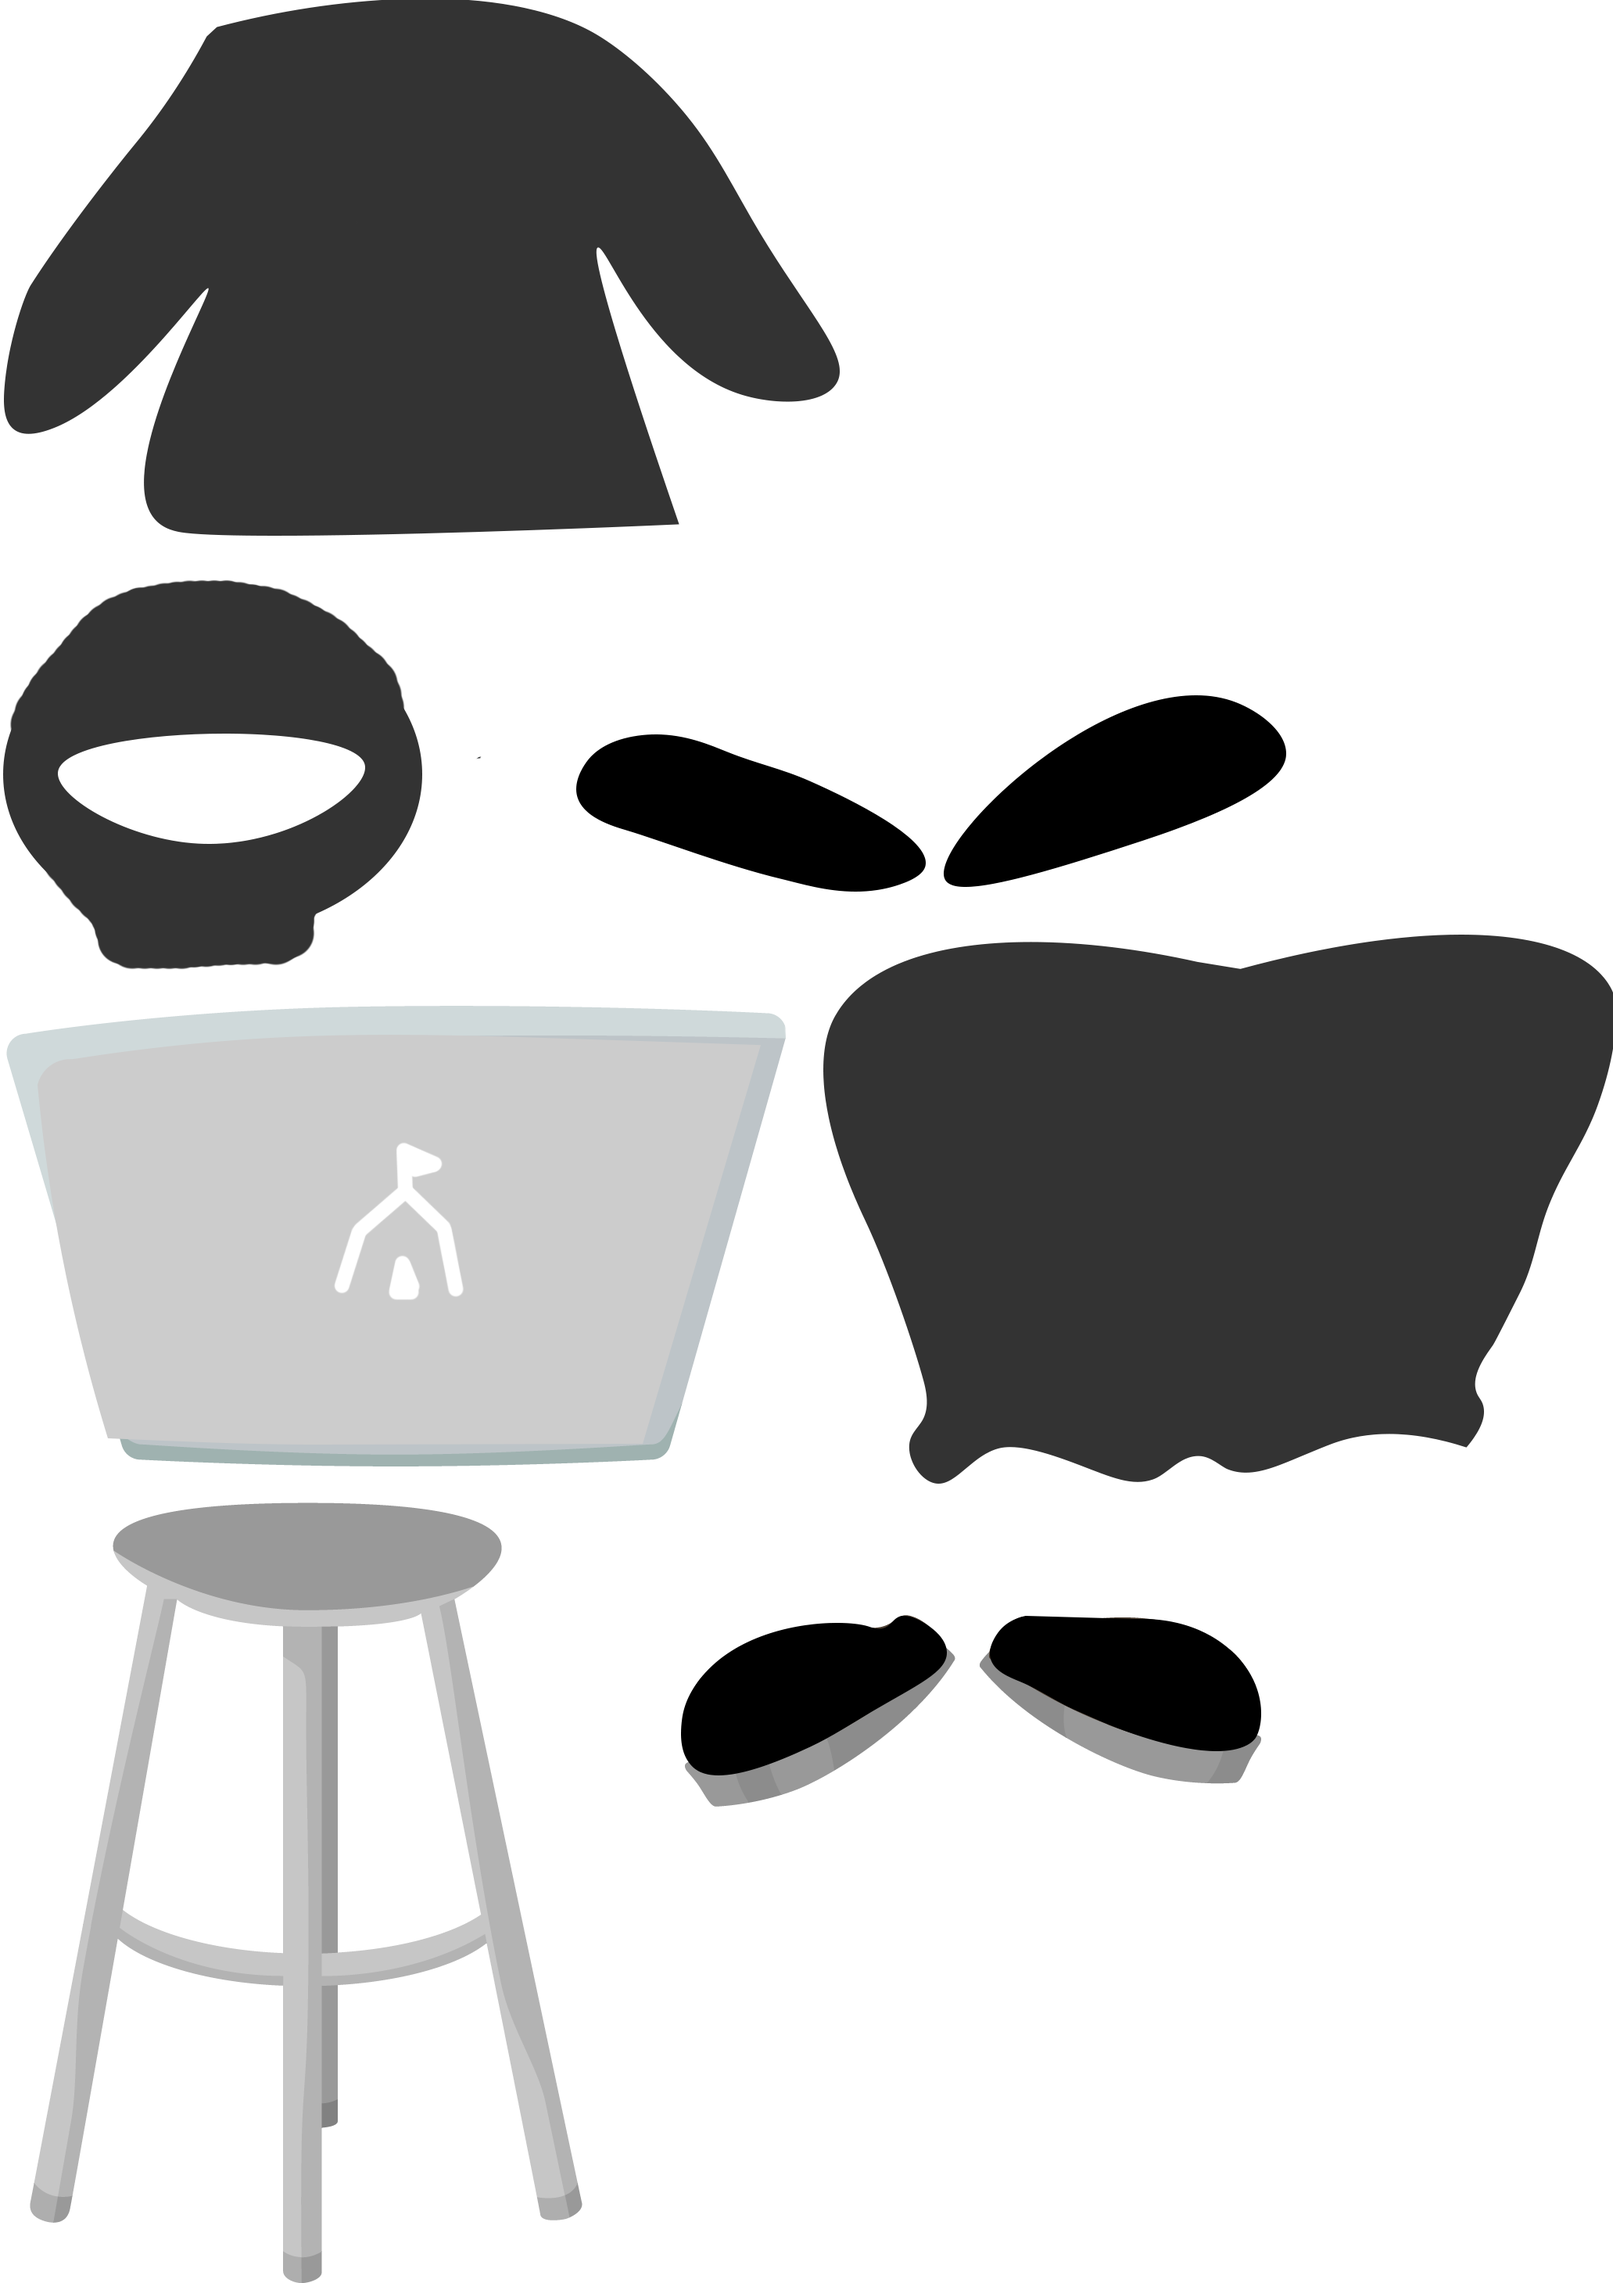
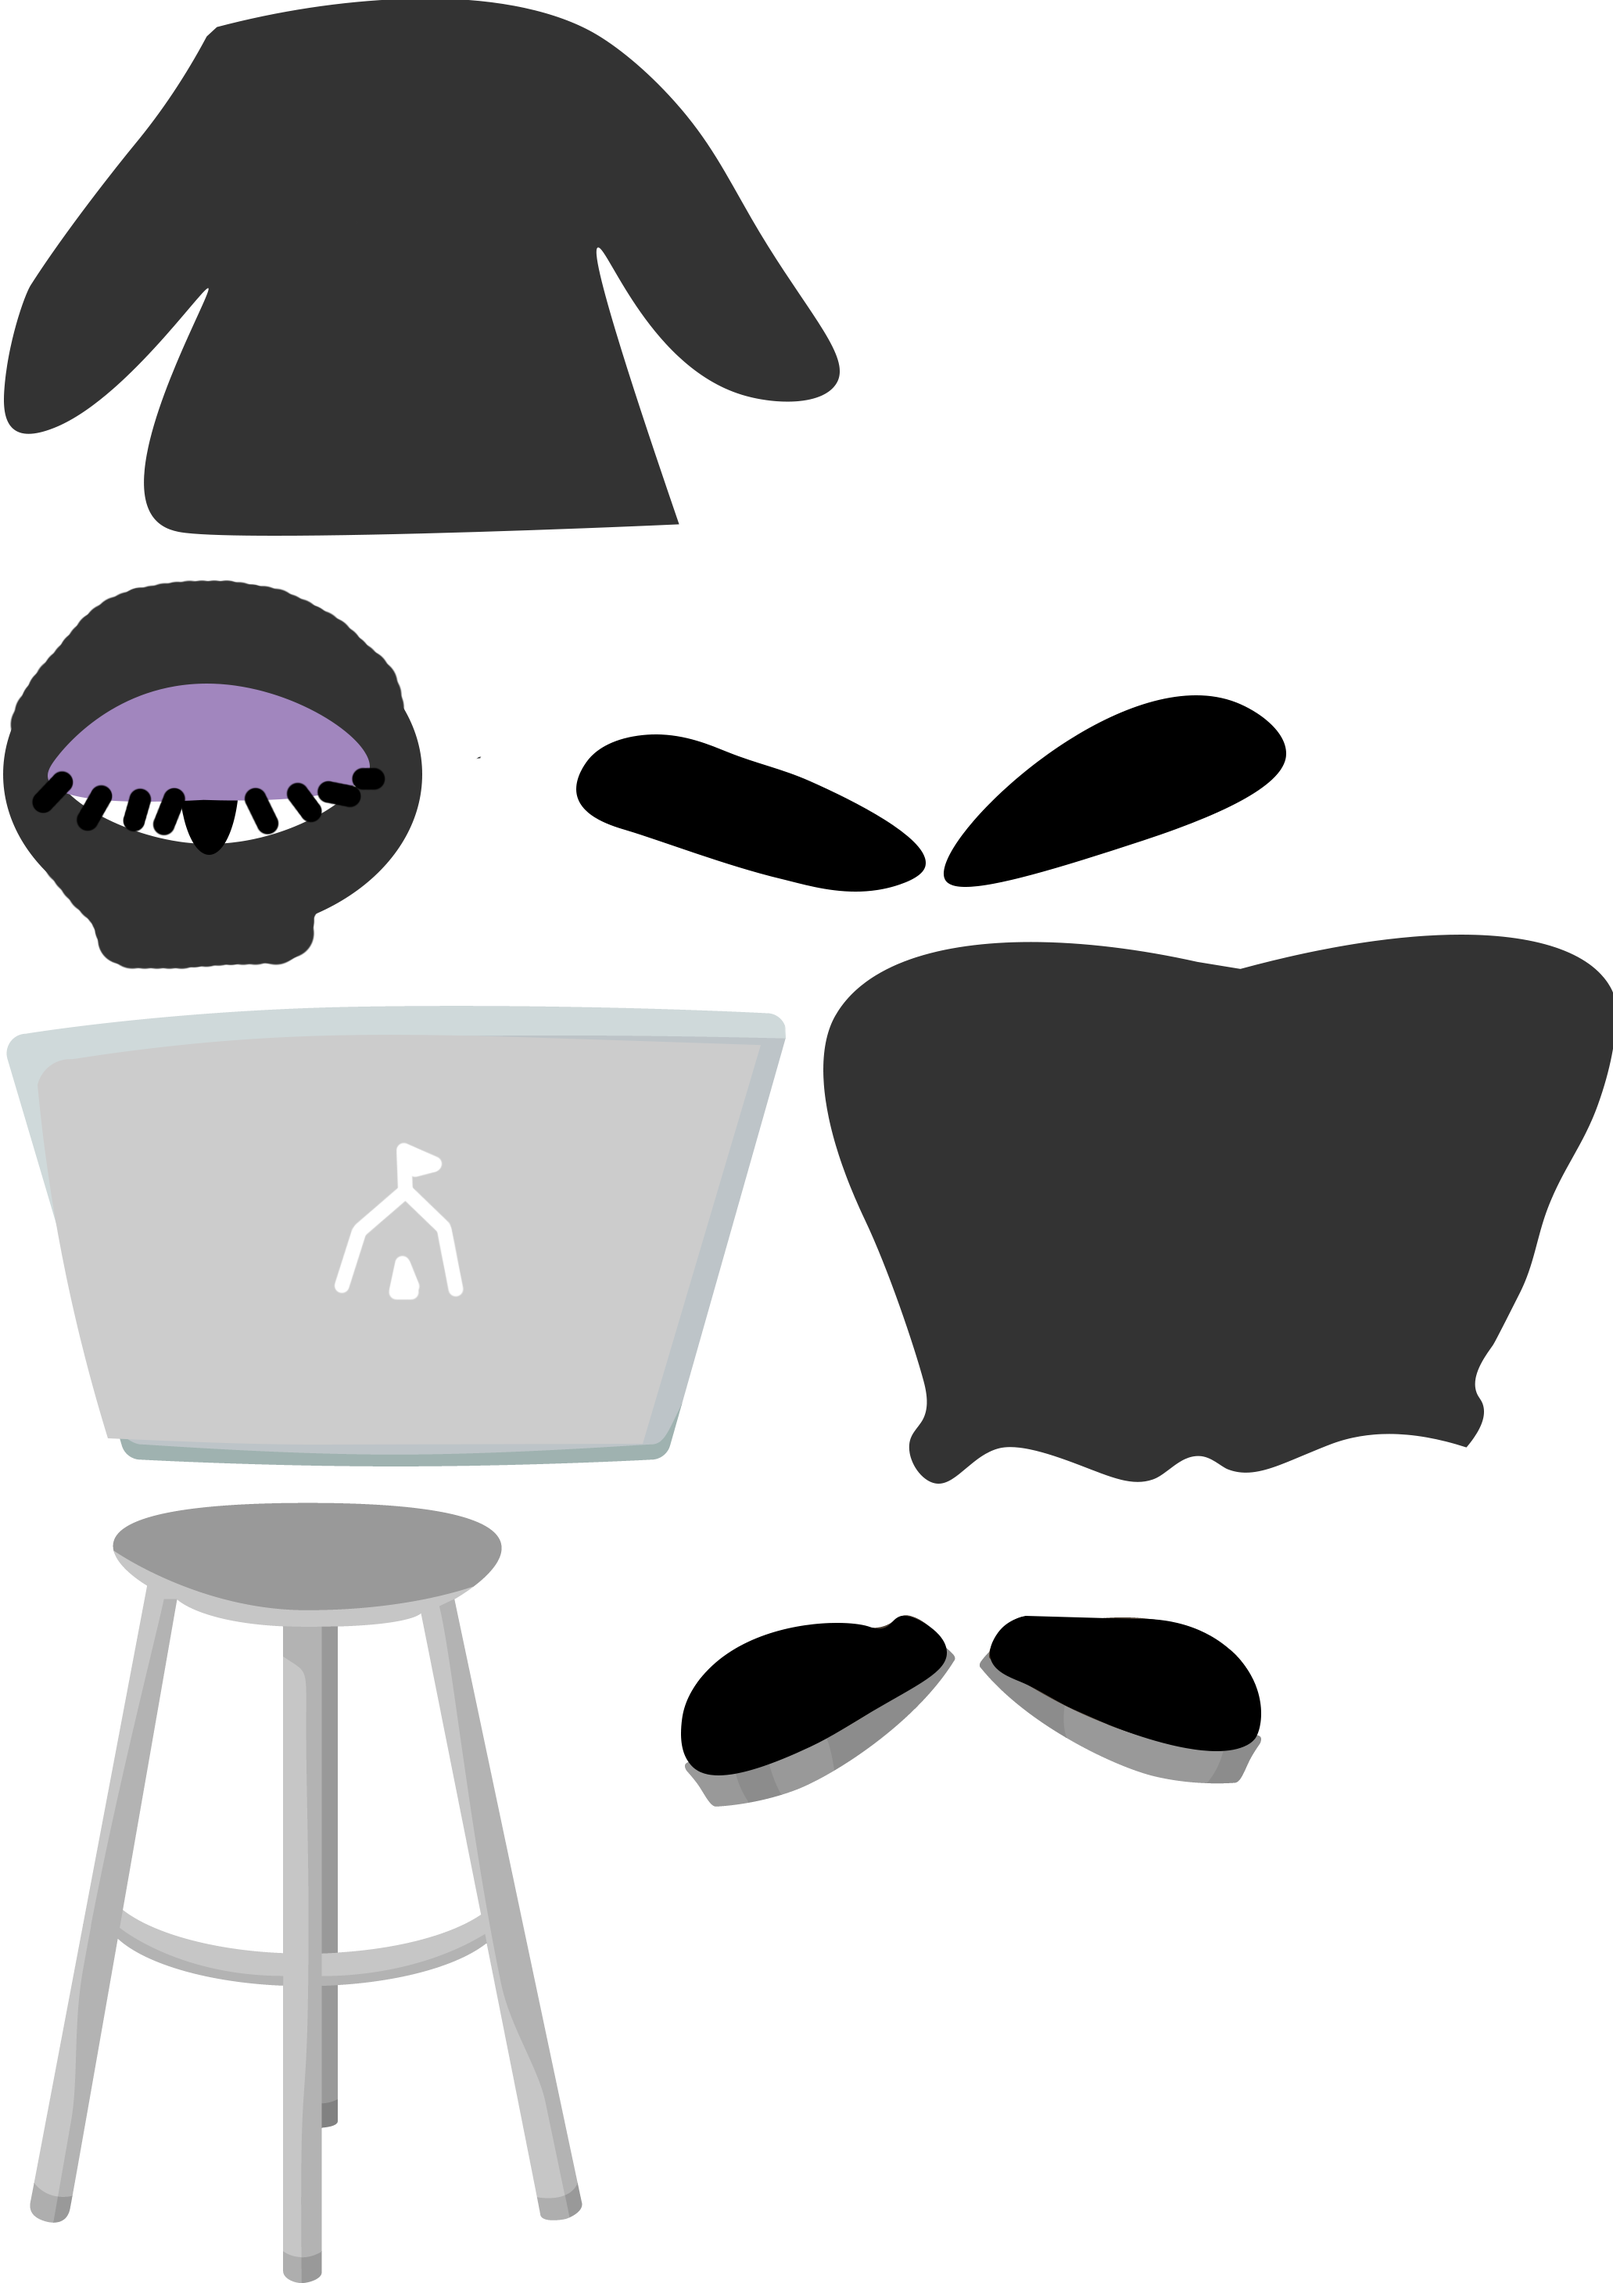
animation

Changed region(s): [[0.0, 0.2806, 0.2482, 0.3741]]

diff --git a/client/src/components/NoInfo.js b/client/src/components/NoInfo.js
@@ -2,6 +2,8 @@ import React, { Component } from 'react';
 import { connect } from 'react-redux';
 import FigureWithEye from '../images/figurewitheye.png';
 import { back } from '../actions';
+import Eyelid404 from '../images/eyelid404.png';
+import Pupil8 from '../images/404pupil.png';
 
 
 class NoInfo extends Component {
@@ -19,8 +21,7 @@ class NoInfo extends Component {
               <div class="body404"></div>
               <div class="leftarm404"></div>
               <div class="rightarm404"></div>
-              <div class="head404">
-              </div>
+              <div class="head404"></div>
             </div>
             <div class="laptop404"></div>
   </div>

diff --git a/client/src/index-large.css b/client/src/index-large.css
@@ -305,7 +305,23 @@ p {
     transform-origin: 50% 85%;
     animation: headTilt $swayspeed ease infinite;
   }
+.eyelid404 {
+  position: absolute;
+  height: auto;
+      width: 262px;
+      margin-left: -29px;
+      margin-top: 8px;
 
+}
+
+/*.pupil404 {
+  position: absolute;
+  height: auto;
+  width: 70px;
+  margin-left: 64px;
+  margin-top:-115px;
+  z-index: 2;
+}*/
   /*.eyes404 {
     position: absolute;
     top: 92px;
